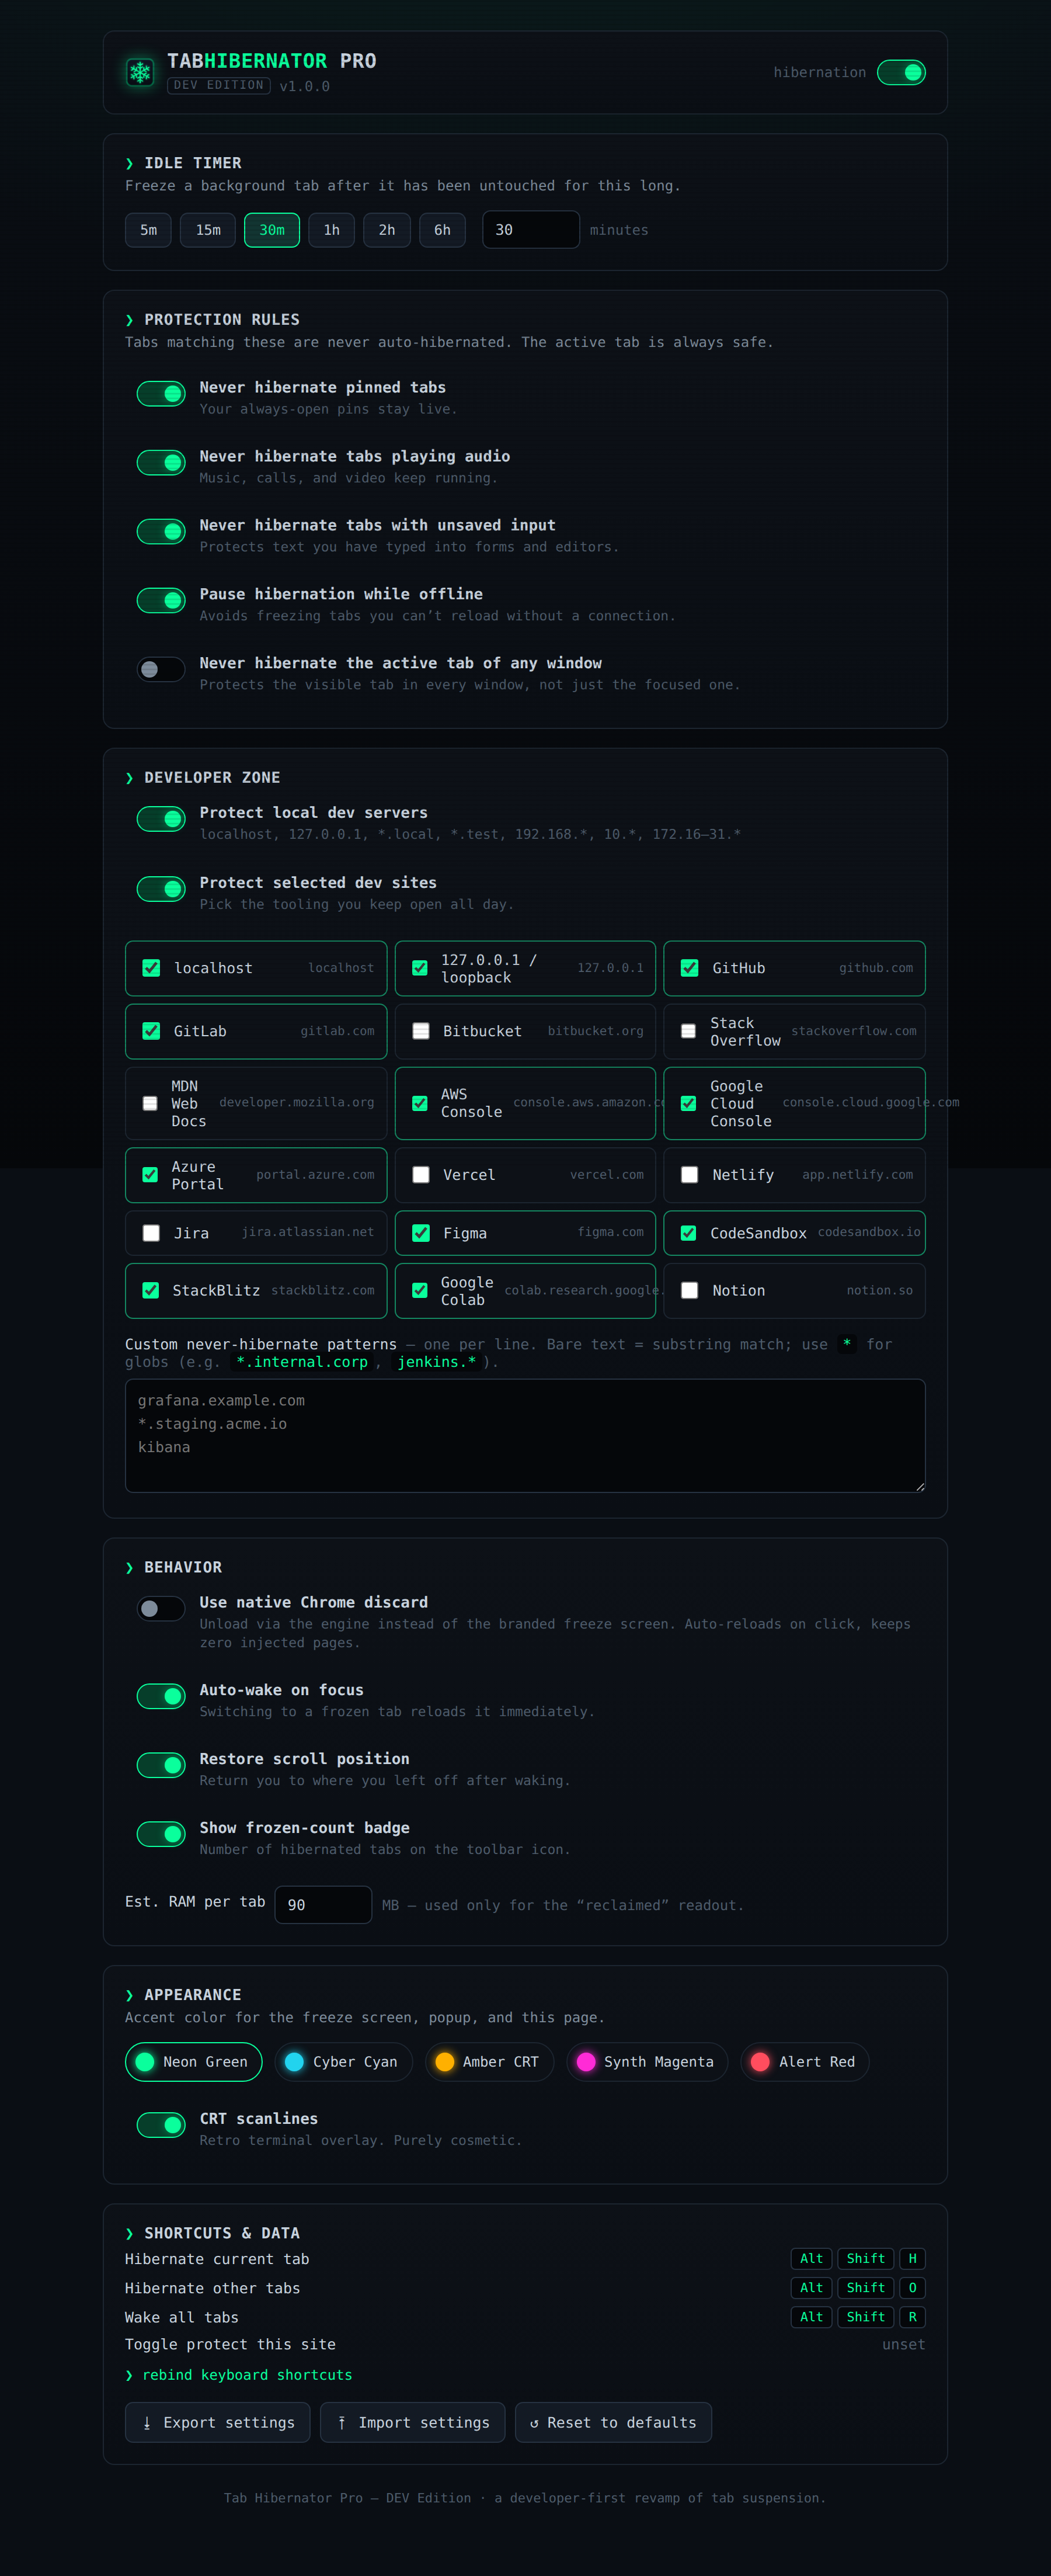
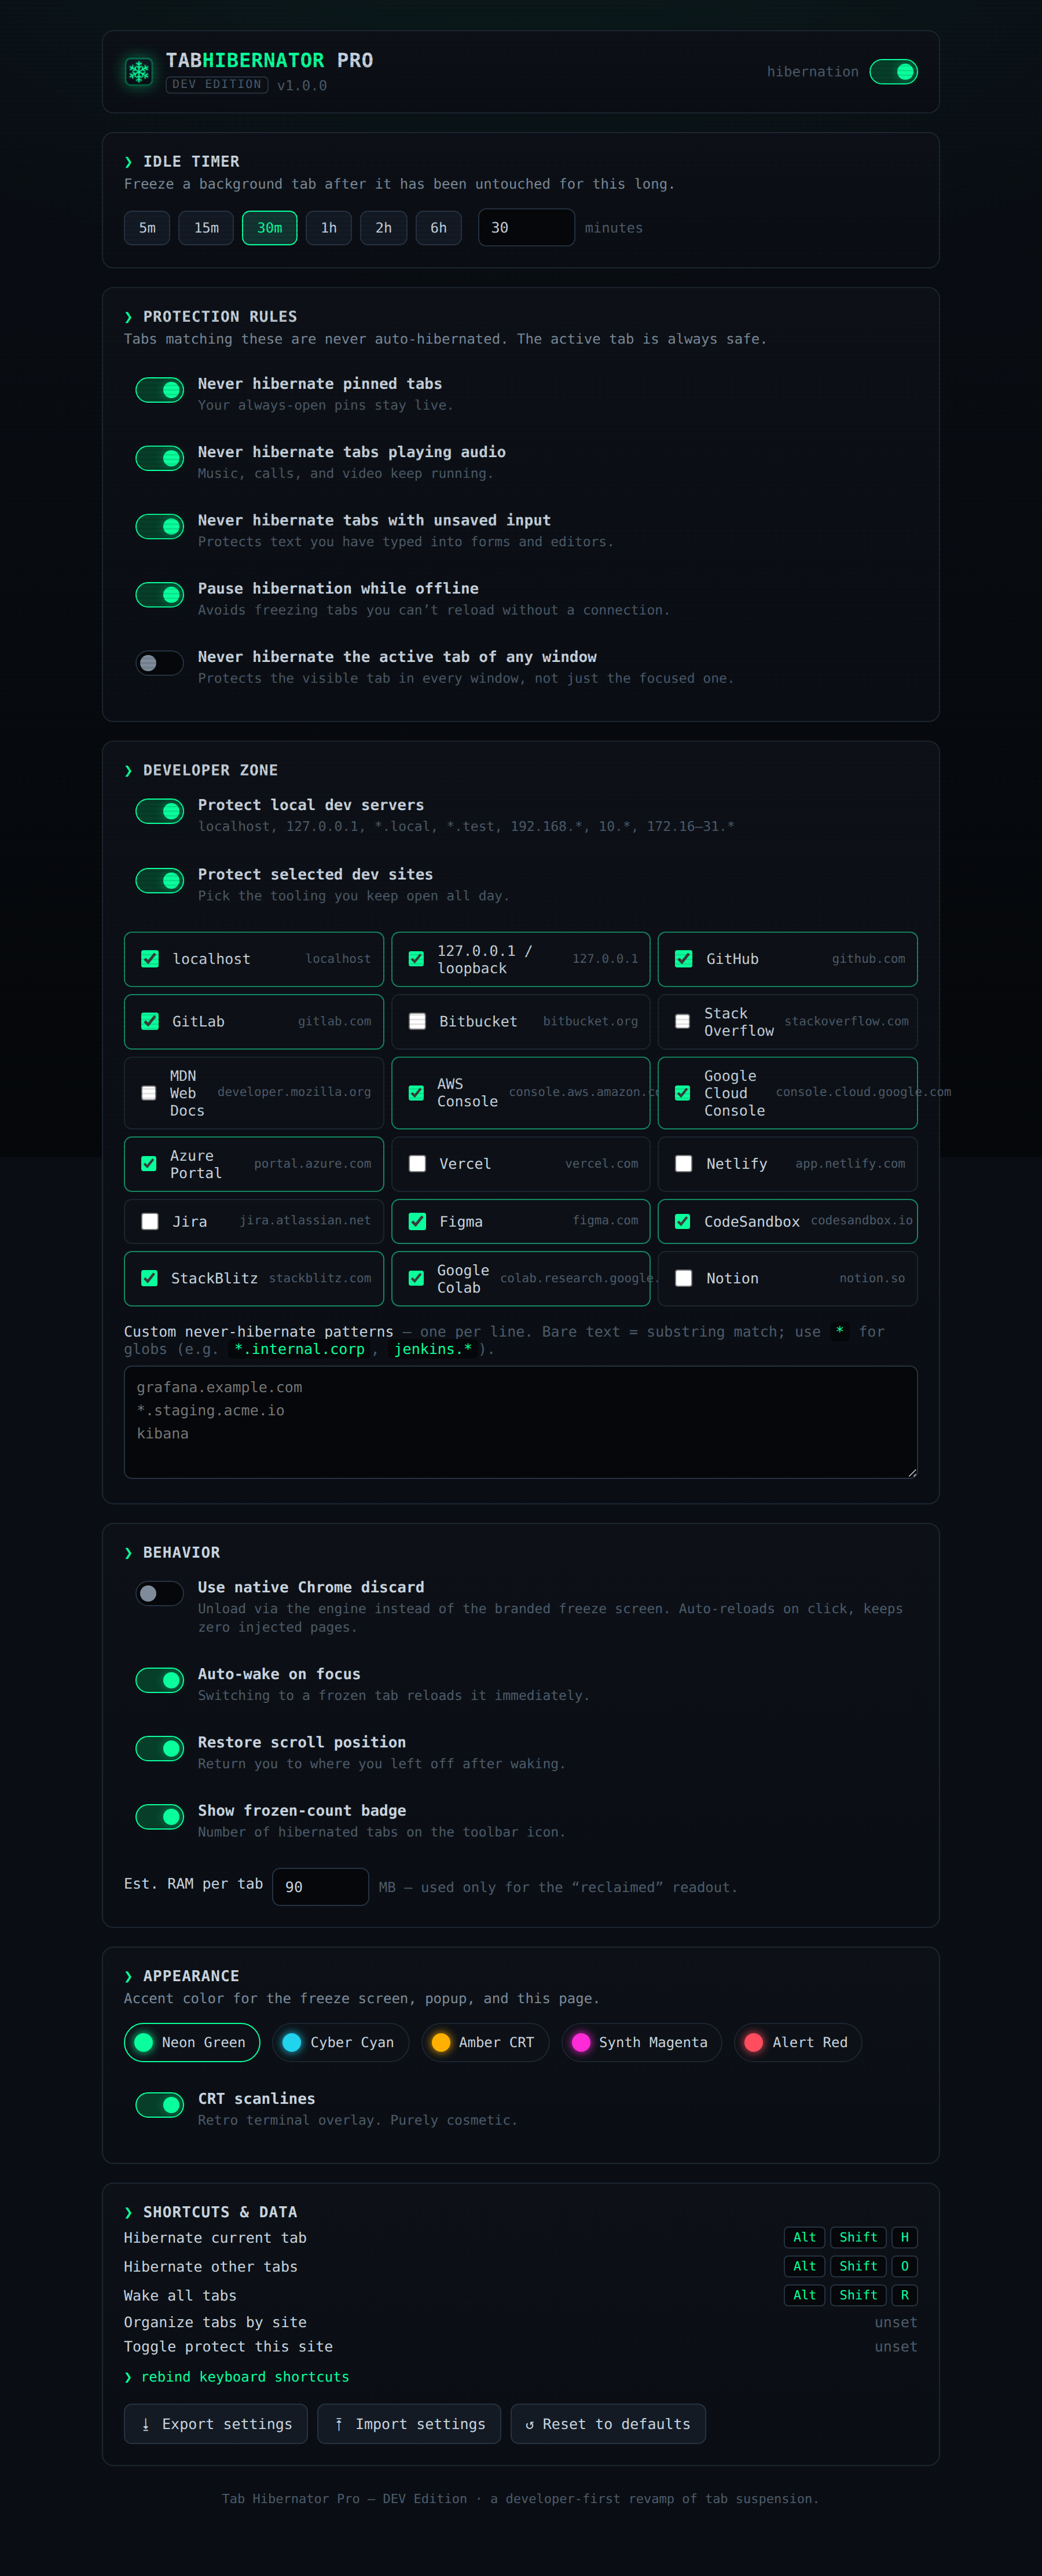
Add one-click tab organizer (group by site)
Groups the current window's tabs into native, color-coded Chrome tab groups
by registrable domain, and an ungroup action to flatten them again.

- service worker: organizeBySite() buckets unpinned tabs by domain (suspended
  tabs group by their original site), names each group by domain, assigns a
  deterministic color; ungroupAll() reverses it. baseDomain() leaves IPv4/IPv6
  literals whole so 127.0.0.1 / 192.168.x hosts aren't mangled.
- Surfaced in the popup ("⌗ Group tabs by site" + ungroup), the right-click
  menu, and a bindable "organize-site" keyboard command.
- Adds the `tabGroups` permission.

Verified with a 10-check browser E2E (grouping, titles, colors, IP handling,
singletons left alone, ungroup) plus no regression in the hibernation suite.

Claude-Session: https://claude.ai/code/session_01UfZgu272b83XKoeAw4QEEg

diff --git a/src/background/service-worker.js b/src/background/service-worker.js
@@ -100,6 +100,9 @@ async function setupContextMenus() {
     { id: 'thp-hibernate-others', title: 'Hibernate all other tabs' },
     { id: 'thp-restore-all', title: 'Wake all hibernated tabs' },
     { id: 'thp-sep', type: 'separator' },
+    { id: 'thp-organize', title: 'Organize tabs by site' },
+    { id: 'thp-ungroup', title: 'Ungroup all tabs' },
+    { id: 'thp-sep2', type: 'separator' },
     { id: 'thp-whitelist-site', title: 'Never hibernate this site' },
   ];
   for (const it of items) {
@@ -112,6 +115,8 @@ chrome.contextMenus.onClicked.addListener(async (info, tab) => {
     case 'thp-hibernate': if (tab) await hibernateTab(tab, { manual: true }); break;
     case 'thp-hibernate-others': await hibernateOthers(tab); break;
     case 'thp-restore-all': await restoreAll(); break;
+    case 'thp-organize': await organizeBySite(tab?.windowId); break;
+    case 'thp-ungroup': await ungroupAll(tab?.windowId); break;
     case 'thp-whitelist-site': if (tab?.url) await whitelistSite(tab.url); break;
   }
 });
@@ -125,6 +130,7 @@ chrome.commands.onCommand.addListener(async (command) => {
     case 'hibernate-current': if (tab) await hibernateTab(tab, { manual: true }); break;
     case 'hibernate-others': await hibernateOthers(tab); break;
     case 'restore-all': await restoreAll(); break;
+    case 'organize-site': await organizeBySite(tab?.windowId); break;
     case 'toggle-whitelist': if (tab?.url) await toggleWhitelistSite(tab.url); break;
   }
 });
@@ -276,6 +282,76 @@ async function toggleWhitelistSite(url) {
 }
 
 // ---------------------------------------------------------------------------
+// tab organizer — one-click "group by site" using native tab groups
+// ---------------------------------------------------------------------------
+const GROUP_COLORS = ['blue', 'cyan', 'green', 'yellow', 'orange', 'red', 'pink', 'purple', 'grey'];
+// second-level labels that precede a country TLD (co.uk, com.au, …)
+const SECOND_LEVEL = new Set(['co', 'com', 'org', 'net', 'gov', 'edu', 'ac', 'gob', 'go']);
+
+// Collapse a hostname to its registrable-ish domain so api.stripe.com and
+// dashboard.stripe.com land in the same "stripe.com" group.
+function baseDomain(host) {
+  host = String(host);
+  // Never fold IP literals (IPv4/IPv6) — they are the whole identity.
+  if (host.includes(':') || /^\d{1,3}(\.\d{1,3}){3}$/.test(host)) return host;
+  const parts = host.split('.').filter(Boolean);
+  if (parts.length <= 2) return host;
+  const secondLast = parts[parts.length - 2];
+  if (SECOND_LEVEL.has(secondLast)) return parts.slice(-3).join('.');
+  return parts.slice(-2).join('.');
+}
+
+function colorFor(domain) {
+  let h = 0;
+  for (let i = 0; i < domain.length; i++) h = (h * 31 + domain.charCodeAt(i)) >>> 0;
+  return GROUP_COLORS[h % GROUP_COLORS.length];
+}
+
+// Group every (unpinned) tab in a window by its site. Suspended tabs are
+// grouped by their original site so freezing doesn't scatter your groups.
+async function organizeBySite(windowId) {
+  if (windowId == null) {
+    const w = await chrome.windows.getCurrent();
+    windowId = w.id;
+  }
+  const tabs = await chrome.tabs.query({ windowId, pinned: false });
+  const buckets = new Map();
+  for (const t of tabs) {
+    let url = t.url;
+    if (isSuspendedUrl(url)) url = originalUrlFromSuspended(url) || url;
+    if (!isHibernatableUrl(url)) continue; // skip chrome://, extension pages, etc.
+    const host = hostnameOf(url);
+    if (!host) continue;
+    const dom = baseDomain(host);
+    if (!buckets.has(dom)) buckets.set(dom, []);
+    buckets.get(dom).push(t.id);
+  }
+  let groups = 0;
+  for (const [dom, ids] of buckets) {
+    if (ids.length < 2) continue; // don't box up lone tabs
+    try {
+      const groupId = await chrome.tabs.group({ tabIds: ids, createProperties: { windowId } });
+      await chrome.tabGroups.update(groupId, { title: dom, color: colorFor(dom) });
+      groups++;
+    } catch { /* a tab may have closed mid-operation */ }
+  }
+  return { groups };
+}
+
+async function ungroupAll(windowId) {
+  if (windowId == null) {
+    const w = await chrome.windows.getCurrent();
+    windowId = w.id;
+  }
+  const tabs = await chrome.tabs.query({ windowId });
+  const grouped = tabs
+    .filter(t => t.groupId != null && t.groupId !== chrome.tabGroups.TAB_GROUP_ID_NONE)
+    .map(t => t.id);
+  if (grouped.length) { try { await chrome.tabs.ungroup(grouped); } catch {} }
+  return { ungrouped: grouped.length };
+}
+
+// ---------------------------------------------------------------------------
 // badge
 // ---------------------------------------------------------------------------
 async function countSuspended() {
@@ -357,6 +433,16 @@ chrome.runtime.onMessage.addListener((msg, _sender, sendResponse) => {
         const next = await saveSettings(msg.settings || {});
         await refreshBadge();
         sendResponse({ settings: next });
+        break;
+      }
+      case 'THP_organizeSite': {
+        const res = await organizeBySite(msg.windowId);
+        sendResponse({ ok: true, ...res });
+        break;
+      }
+      case 'THP_ungroupAll': {
+        const res = await ungroupAll(msg.windowId);
+        sendResponse({ ok: true, ...res });
         break;
       }
       case 'THP_getPendingScroll': {

diff --git a/src/popup/popup.js b/src/popup/popup.js
@@ -101,6 +101,21 @@ $('wlBtn').addEventListener('click', async () => {
   refresh();
 });
 
+$('btnOrganize').addEventListener('click', async () => {
+  const btn = $('btnOrganize');
+  btn.disabled = true;
+  const r = await sendBg({ type: 'THP_organizeSite' });
+  flash(btn);
+  btn.querySelector('.ico').nextSibling.textContent =
+    r && r.groups ? ` Grouped ${r.groups} site${r.groups === 1 ? '' : 's'}` : ' Nothing to group';
+  setTimeout(() => window.close(), 650);
+});
+
+$('btnUngroup').addEventListener('click', async () => {
+  await sendBg({ type: 'THP_ungroupAll' });
+  flash($('btnUngroup'));
+});
+
 $('openOptions').addEventListener('click', (e) => {
   e.preventDefault();
   chrome.runtime.openOptionsPage();

diff --git a/src/popup/popup.html b/src/popup/popup.html
@@ -67,6 +67,15 @@
       </button>
     </section>
 
+    <section class="organize">
+      <button class="btn btn-organize" id="btnOrganize" aria-label="Group tabs by site">
+        <span class="ico" aria-hidden="true">⌗</span> Group tabs by site
+      </button>
+      <button class="btn" id="btnUngroup" aria-label="Ungroup all tabs" title="Ungroup all tabs">
+        <span class="ico" aria-hidden="true">⤫</span>
+      </button>
+    </section>
+
     <footer class="foot">
       <a href="#" id="openOptions" class="thp-prompt">settings</a>
       <span class="faint kbd-hint" id="kbdHint">Alt+Shift+H</span>

diff --git a/src/popup/popup.css b/src/popup/popup.css
@@ -55,6 +55,11 @@
 .actions { display: grid; grid-template-columns: 1.3fr 1fr 1fr; gap: 8px; }
 .actions .ico { filter: drop-shadow(0 0 4px var(--accent-glow)); }
 
+.organize { display: grid; grid-template-columns: 1fr auto; gap: 8px; }
+.btn-organize { justify-content: center; }
+.organize .ico { filter: drop-shadow(0 0 4px var(--accent-glow)); }
+#btnUngroup { padding-inline: 12px; }
+
 .foot {
   display: flex; align-items: center; justify-content: space-between;
   font-size: 11px; padding-top: 2px;

diff --git a/src/options/options.js b/src/options/options.js
@@ -97,6 +97,7 @@ function renderShortcuts() {
     'hibernate-current': 'Hibernate current tab',
     'hibernate-others': 'Hibernate other tabs',
     'restore-all': 'Wake all tabs',
+    'organize-site': 'Organize tabs by site',
     'toggle-whitelist': 'Toggle protect this site',
   };
   chrome.commands.getAll((cmds) => {

diff --git a/README.md b/README.md
@@ -29,6 +29,9 @@ knows what a developer's browser looks like:
   consoles, Figma, CodeSandbox, StackBlitz, Colab, and more.
 - 🎛️ **Custom patterns** — bare substrings or `*` globs (e.g. `*.staging.acme.io`,
   `jenkins.*`) for your internal tooling.
+- 🗂️ **One-click tab organizer** — group the current window's tabs by site into
+  native, color-coded tab groups (suspended tabs group by their real domain too).
+  One button to group, one to ungroup.
 - 🔊 **Respects audio, pinned tabs, and offline** — configurable.
 - 💾 **Restores scroll position** when a tab wakes.
 - ↩️ **Preserves the original URL & title** so frozen tabs stay recognizable in
@@ -54,6 +57,8 @@ Click the toolbar icon for the control panel:
 </p>
 
 - **Hibernate tab / Others / Wake all** — one-click actions.
+- **Group tabs by site** — organize the window into tidy, color-coded tab groups
+  (and an ungroup button to flatten them again).
 - **Never hibernate this site** — protect the current domain instantly.
 - Master toggle to pause/resume monitoring.
 - Live count of frozen tabs and estimated RAM reclaimed.